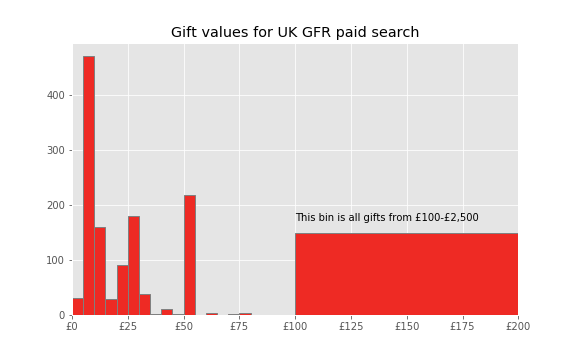
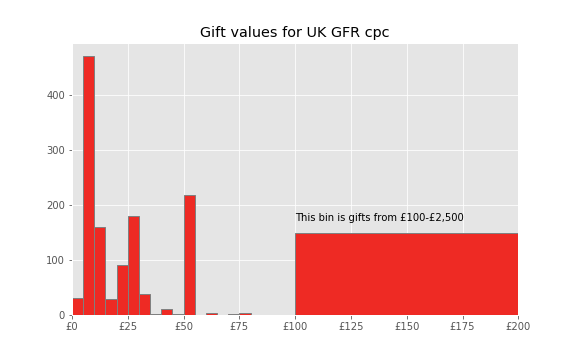
Segment graph generator added

Changed region(s): [[0.2812, 0.0611, 0.7188, 0.1222], [0.5938, 0.5806, 0.8438, 0.6111]]

diff --git a/investigation_plot_avg.py b/investigation_plot_avg.py
@@ -162,17 +162,22 @@ sg_nonsmall[sg_nonsmall['medium'] == 'cpc'].to_csv('AmendedData\\cpclbl.csv')
 # For Rach's Q about ppc median gift
 # =============================================================================
 
-ukgfr_cpc = sglbl[(sglbl['medium']=='cpc') & (sglbl['ukgfr']==True)]
+# segment = 'cpc'
+# segment = 'Email'
+segment = 'Social Ad'
 
-ukgfr_cpc.describe()
+ukgfr_segment = sglbl[(sglbl['medium']==segment) & (sglbl['ukgfr']==True)]
 
-figcpc, axcpc = plt.subplots(1, 1, figsize=(8, 5))
-ukgfr_cpc['value'].hist(bins=list(range(0, 100, 5)) + [100, 10000],
-         color='#ee2a24', ax=axcpc, edgecolor='gray', linewidth=1)
-axcpc.set_xlim((0, 200))
-ukgfr_cpc_max = ukgfr_cpc['value'].max()
-cpc_annot = "This bin is all gifts from £100-£{:,.0f}".format(ukgfr_cpc_max)
-axcpc.annotate(cpc_annot, (100, 170))
-axcpc.set_title('Gift values for UK GFR paid search')
-axcpc.xaxis.set_major_formatter(currfmt)
-plt.savefig('Outputs\\ukgfr_gift_values_cpc.png')
+ukgfr_segment.describe()
+
+figseg, axseg = plt.subplots(1, 1, figsize=(8, 5))
+ukgfr_segment['value'].hist(bins=list(range(0, 100, 5)) + [100, 10000],
+         color='#ee2a24', ax=axseg, edgecolor='gray', linewidth=1)
+axseg.set_xlim((0, 200))
+ukgfr_segment_max = ukgfr_segment['value'].max()
+seg_annot = "This bin is gifts from £100-£{:,.0f}".format(ukgfr_segment_max)
+axseg.annotate(seg_annot, (100, 170))
+axseg.set_title('Gift values for UK GFR {}'.format(segment))
+axseg.xaxis.set_major_formatter(currfmt)
+seg_strip = "".join(segment.split(" "))
+plt.savefig('Outputs\\ukgfr_gift_values_{}.png'.format(seg_strip))
